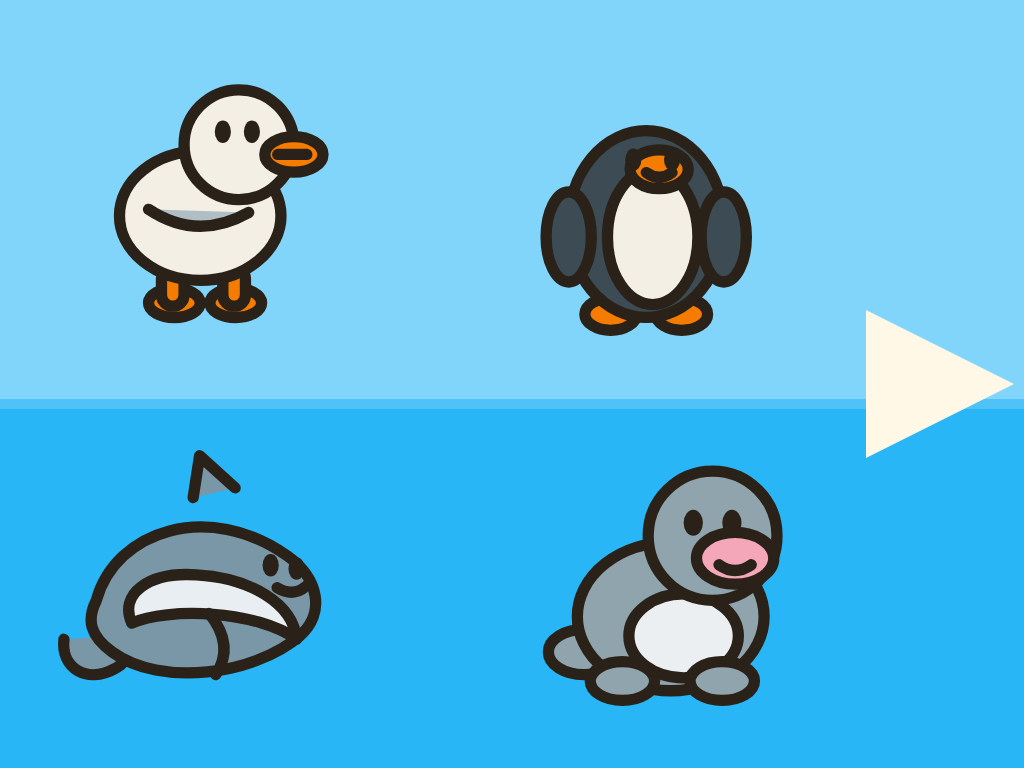
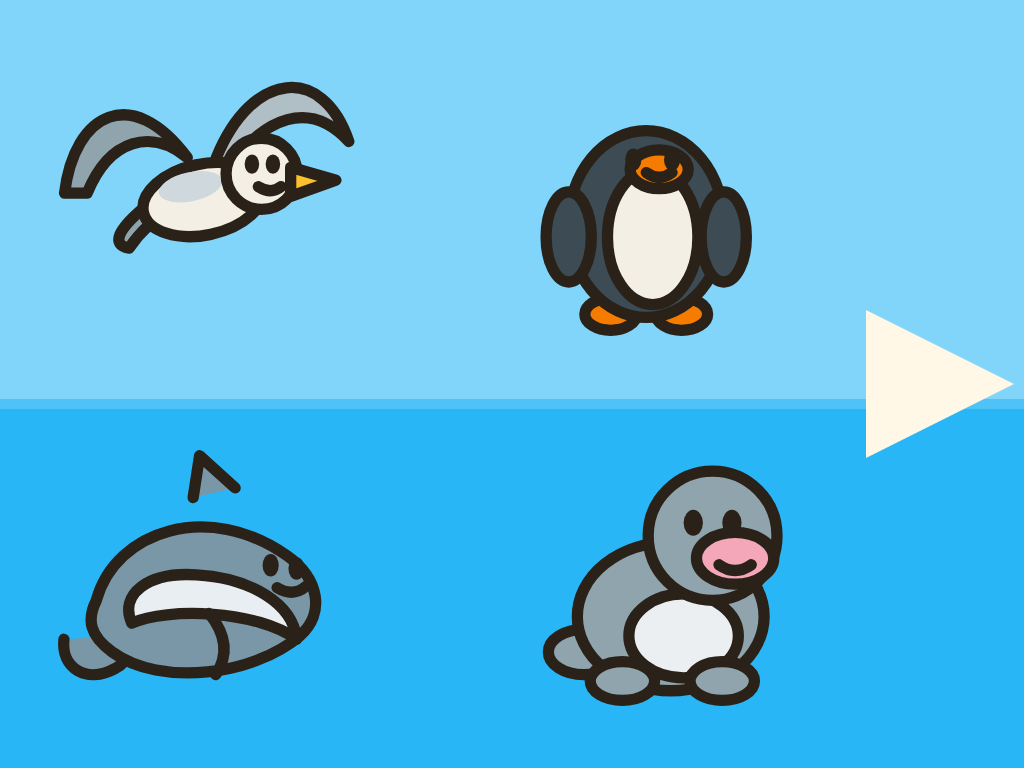
かもめを飛行姿に描き直し、未使用ラスターを削除する
立つ白い鳥だとあひると見誤るため、M字の翼・灰白の体・黄色い嘴の飛行SVGに差し替える。public/assets/art/_generated-source/ を削除し、SWキャッシュを tap-game-v6 にする。海のQAショットだけ撮り直した。

Changed region(s): [[0.0312, 0.0938, 0.3438, 0.4375]]

diff --git a/public/sw.js b/public/sw.js
@@ -1,4 +1,4 @@
-const CACHE = "tap-game-v5";
+const CACHE = "tap-game-v6";
 const PRECACHE = [
   "./",
   "./index.html",

diff --git a/LICENSES.md b/LICENSES.md
@@ -6,9 +6,7 @@ Commercial use of every included file is OK under the license named in its row. 
 
 ## Art
 
-All 12 animal illustrations are **original compact SVGs** drawn for this toy (flat toddler style, thick outline, no character likeness). They are not traces of books, anime, or mascots. Earlier PNG-in-SVG wrappers (~1MB) were replaced so first load and Service Worker precache stay small on a tablet.
-
-Unprocessed raster archive from an earlier generation pass remains under `public/assets/art/_generated-source/` (not shipped to the child UI or precache).
+All 12 animal illustrations are **original compact SVGs** drawn for this toy (flat toddler style, thick outline, no character likeness). They are not traces of books, anime, or mascots. Earlier PNG-in-SVG wrappers and a raster generation archive were removed so first load and Service Worker precache stay small on a tablet.
 
 | File | Source | License | Commercial OK | What we changed |
 |---|---|---|---|---|
@@ -20,11 +18,10 @@ Unprocessed raster archive from an earlier generation pass remains under `public
 | `public/assets/art/yard/cat.svg` | Original vector drawing | Original work for this repo | yes | compact flat SVG |
 | `public/assets/art/yard/duck.svg` | Original vector drawing | Original work for this repo | yes | compact flat SVG |
 | `public/assets/art/yard/frog.svg` | Original vector drawing | Original work for this repo | yes | compact flat SVG |
-| `public/assets/art/sea/seagull.svg` | Original vector drawing | Original work for this repo | yes | compact flat SVG |
+| `public/assets/art/sea/seagull.svg` | Original vector drawing | Original work for this repo | yes | flying gray/white bird, compact flat SVG |
 | `public/assets/art/sea/seal.svg` | Original vector drawing | Original work for this repo | yes | compact flat SVG |
 | `public/assets/art/sea/penguin.svg` | Original vector drawing | Original work for this repo | yes | compact flat SVG |
 | `public/assets/art/sea/dolphin.svg` | Original vector drawing | Original work for this repo | yes | compact flat SVG |
-| `public/assets/art/_generated-source/*.png` | Earlier raster originals, unused in UI | Original work for this repo | yes | archive only |
 | `public/assets/icons/icon-192.png` | Derived from cow SVG | Original work for this repo | yes | scaled onto farm-green square |
 | `public/assets/icons/icon-512.png` | Derived from cow SVG | Original work for this repo | yes | scaled onto farm-green square |
 
